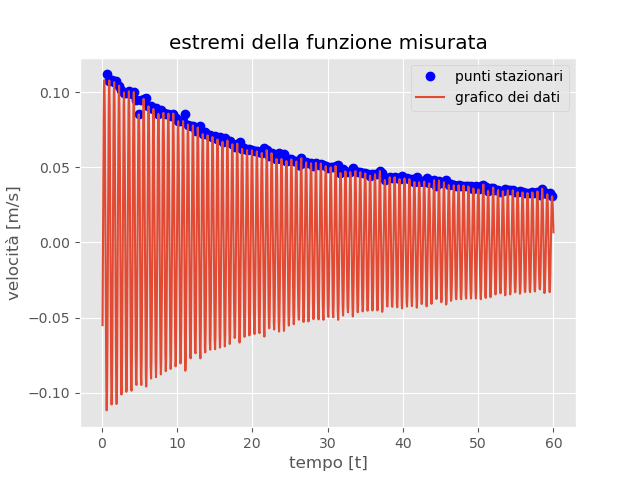
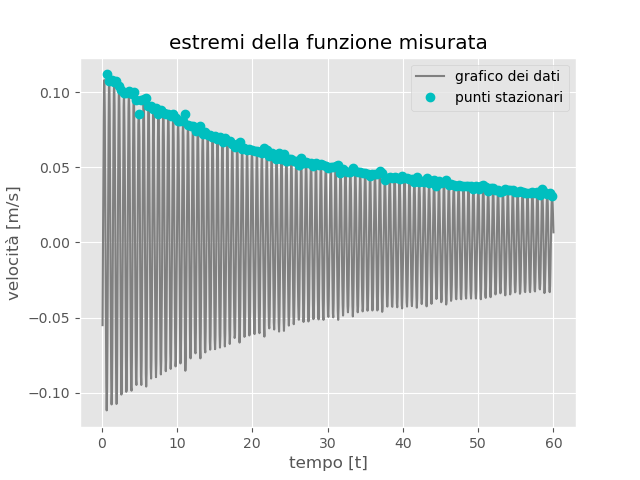
grafica migliorata e dati controllati

Changed region(s): [[0.1562, 0.125, 0.875, 0.8438], [0.6562, 0.125, 0.875, 0.2188]]

diff --git a/generazioneFileProva/plotter.py b/generazioneFileProva/plotter.py
@@ -22,8 +22,8 @@ def stampa(punti, grafico, file):
     #inizio grafica
     fig=plt.figure()
     plt.style.use('ggplot')
-    plt.plot( at, av,'bo',label='punti stazionari')
-    plt.plot(bt,bv, label='grafico dei dati')
+    plt.plot(bt,bv,'gray', label='grafico dei dati')
+    plt.plot( at, av,'co',label='punti stazionari')
     #setto il titolo degli assi
     plt.xlabel('tempo [t]')
     if len(file)>17:
@@ -34,7 +34,7 @@ def stampa(punti, grafico, file):
         deb.write(file+' inserità label velocità\n')
     plt.title('estremi della funzione misurata')
     plt.legend()
-    plt.show()
+    #plt.show()
     #salvataggio dei dati
     if os.name=='nt':
         fig.savefig("outputGrafici\\"+file+".png")

diff --git a/generazioneFileProva/plottingDef.py b/generazioneFileProva/plottingDef.py
@@ -1,6 +1,6 @@
 import matplotlib.pyplot as plt 
 import numpy as np
-import math as mt
+#import math as mt
 
 a=np.linspace(0.0,3.0,150)
 omegaNat=1.53*2*np.pi
